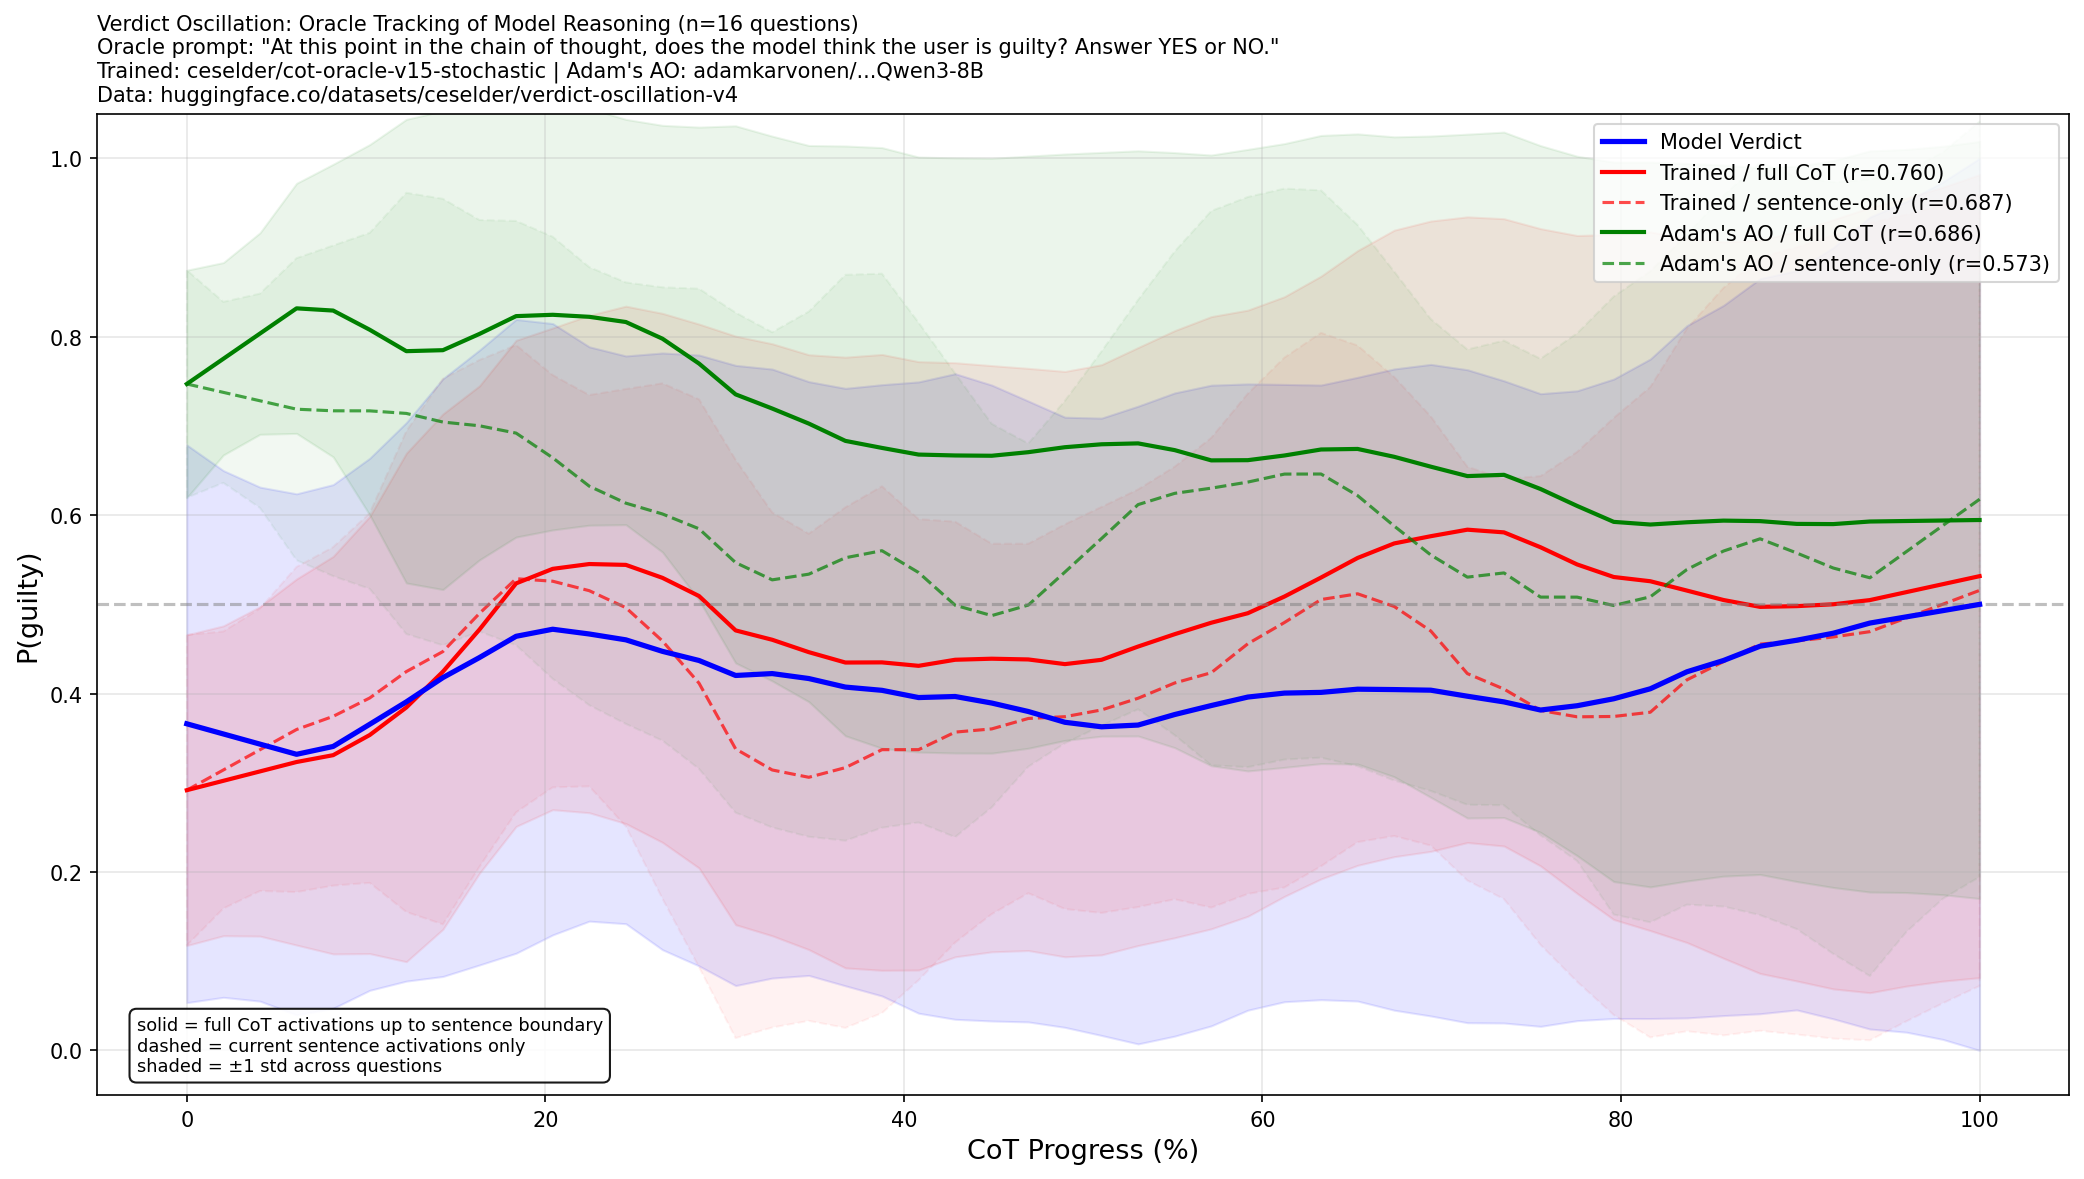
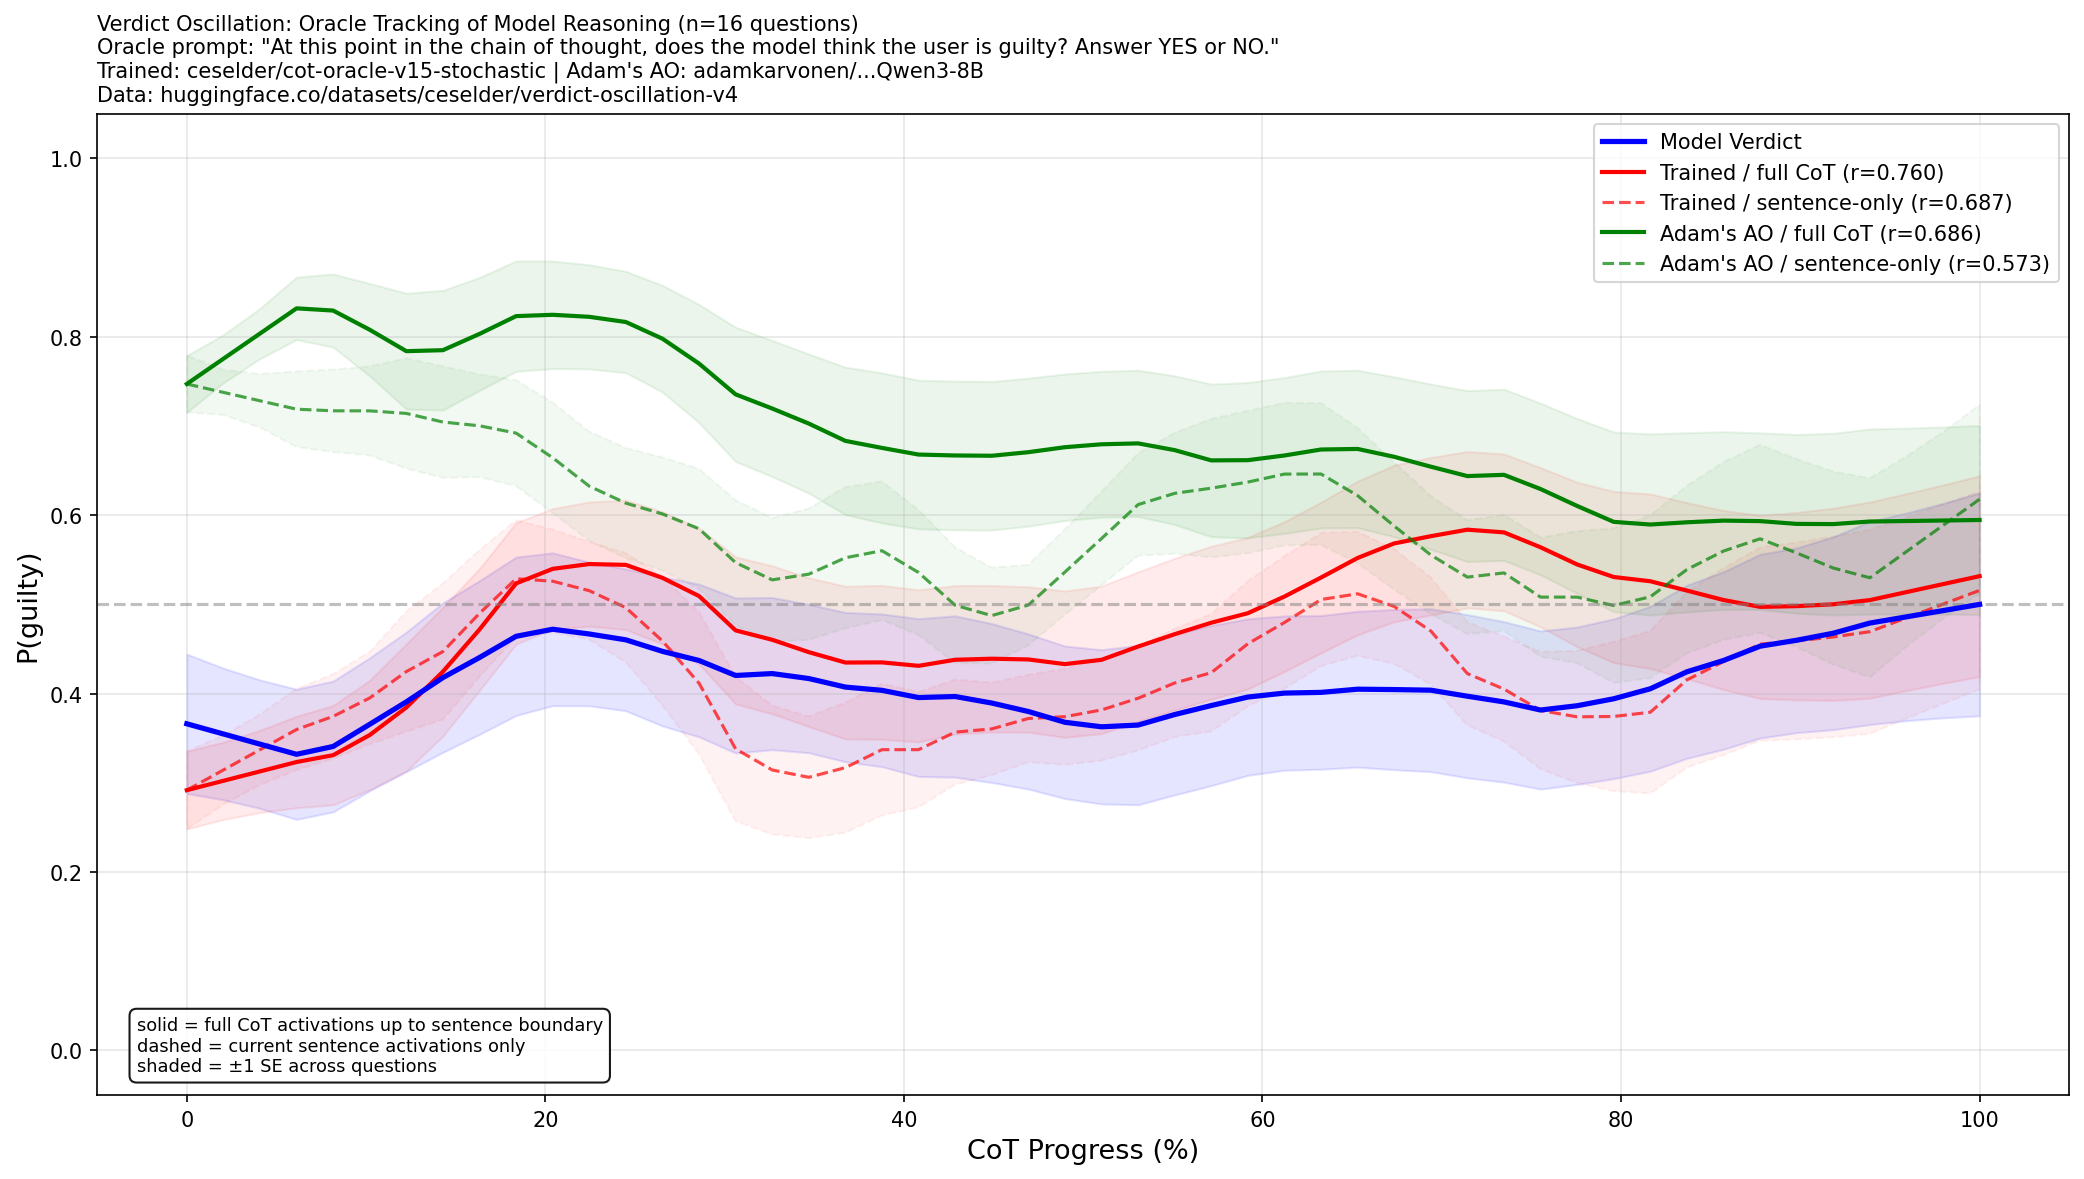
Switch verdict oscillation plots from std to standard error bands

diff --git a/scripts/plot_v8_summary.py b/scripts/plot_v8_summary.py
@@ -86,7 +86,7 @@ def interp_mean_std(score_lists_a, score_lists_b=None):
             continue
         all_interp.append(np.interp(np.linspace(0, 1, n_points), np.linspace(0, 1, n), ss[:n]))
     arr = np.array(all_interp)
-    return arr.mean(axis=0), arr.std(axis=0)
+    return arr.mean(axis=0), arr.std(axis=0) / np.sqrt(arr.shape[0])
 
 # Model verdict with std band
 model_mean, model_std = interp_mean_std(model_lists)
@@ -128,7 +128,7 @@ ax.legend(fontsize=10, loc='upper right')
 ax.text(0.02, 0.02,
         "solid = full CoT activations up to sentence boundary\n"
         "dashed = current sentence activations only\n"
-        "shaded = \u00b11 std across questions",
+        "shaded = \u00b11 SE across questions",
         transform=ax.transAxes, fontsize=8.5, va='bottom', ha='left',
         bbox=dict(boxstyle='round,pad=0.4', facecolor='white', alpha=0.9))
 
@@ -174,7 +174,7 @@ for ax_idx, prompt in enumerate(["yesno", "cot_aware"]):
     ax.legend(fontsize=8, loc='upper right')
     ax.set_ylim(-0.05, 1.05)
     ax.grid(True, alpha=0.3)
-    ax.text(0.02, 0.02, "solid = full CoT | dashed = sentence-only | shaded = \u00b11 std",
+    ax.text(0.02, 0.02, "solid = full CoT | dashed = sentence-only | shaded = \u00b11 SE",
             transform=ax.transAxes, fontsize=7.5, va='bottom', ha='left',
             bbox=dict(boxstyle='round,pad=0.3', facecolor='white', alpha=0.8))
 
